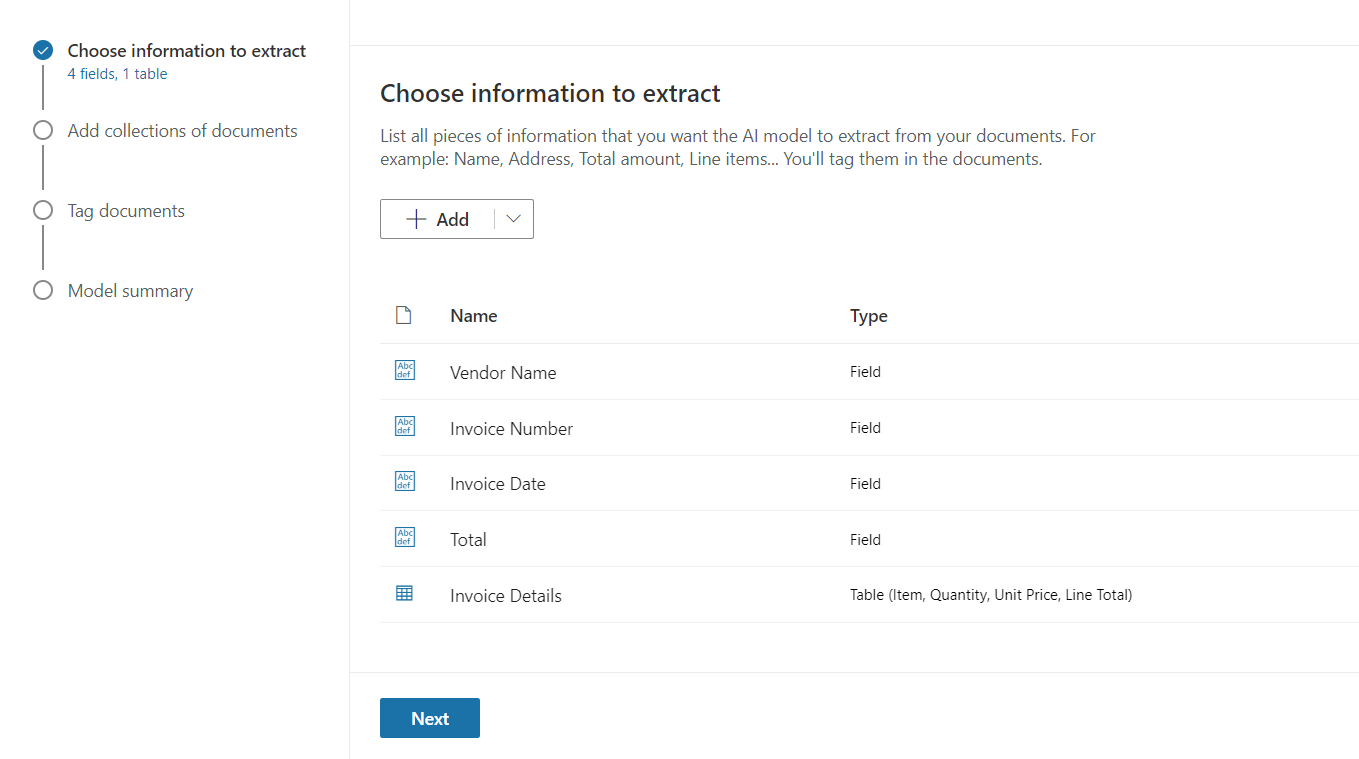
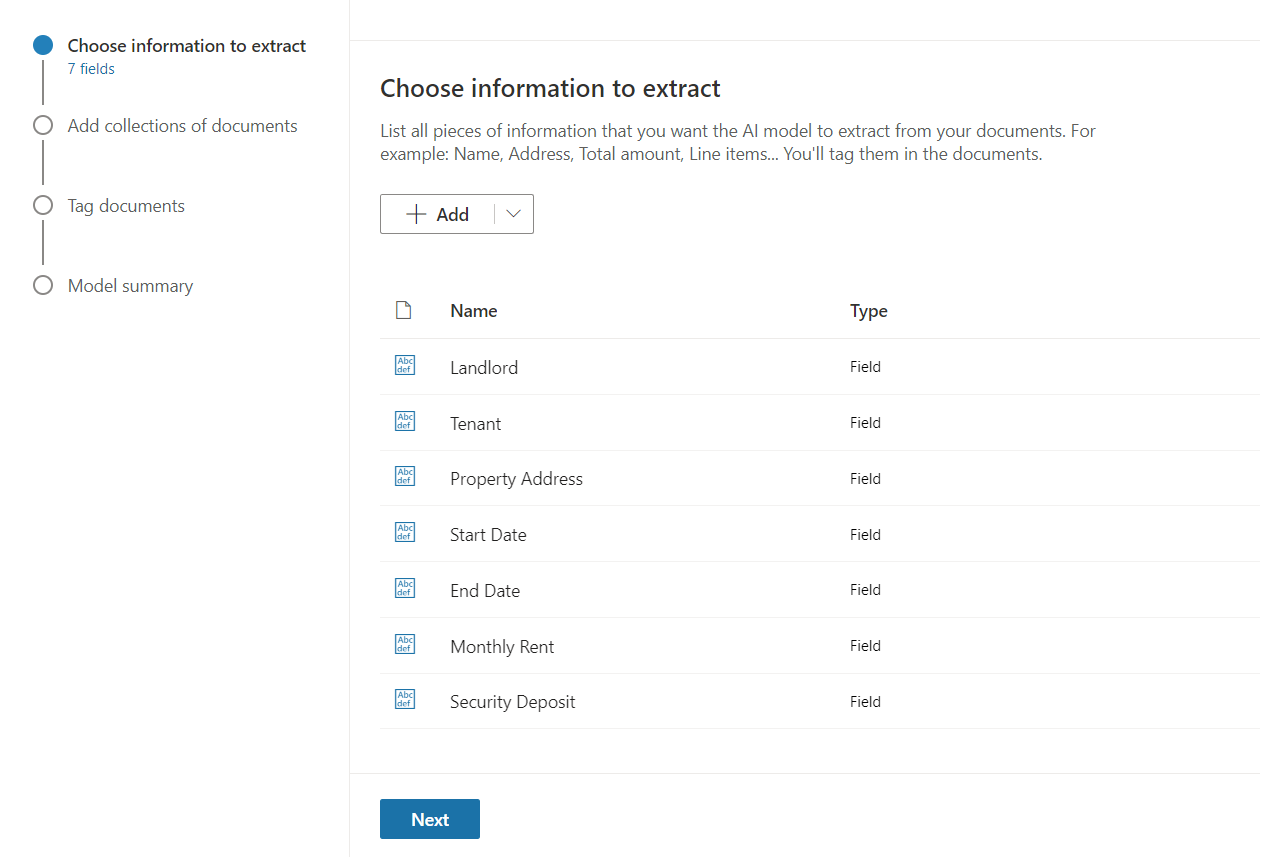
Updated article

diff --git a/_posts/2022-12-05-freeform-doc-processing-syntex.md b/_posts/2022-12-05-freeform-doc-processing-syntex.md
@@ -27,9 +27,14 @@ Freeform document processing model uses Microsoft Power Apps AI Builder to creat
 
 ## Business Scenario
 
-Let us take a scenario, where we are receiving invoices from multiple vendors (e.g., Adatum and Contoso). Adatum shares the invoices over an email. Whereas invoices received from Contoso are in scanned format. Each of them follows its format to share the invoices.
+Let us take a scenario, where we need to process the rental agreements in various formats. The information can appear in a freeform without any pre-defined layout.
 
-You may use the [sample data](https://learn.microsoft.com/en-us/ai-builder/form-processing-sample-data?WT.mc_id=M365-MVP-5003693) for setting up the model.
+You may use the [Rental agreements sample data](https://learn.microsoft.com/en-us/ai-builder/form-processing-sample-data?WT.mc_id=M365-MVP-5003693) for setting up the model.
+
+![](/media/2022-12-05-freeform-doc-processing-syntex/01.png)
+
+The above image shows two different formats of the rental agreement, but has common metadata to extract (E.g., Landlord, Tenant, Property Address, Start Date, End Date, Monthly Rent, and Security Deposit). 
+
 
 ## Create a Freeform document processing model
 
@@ -40,31 +45,27 @@ Follow the below steps to create a Freeform document processing model:
 3. Click **Create a model**.
 4. Select the **Freeform selection method**.
 
-    ![](/media/2022-12-05-freeform-doc-processing-syntex/01.png)
+    ![](/media/2022-12-05-freeform-doc-processing-syntex/02.png)
 
 5. Read out the details to understand the model better. Note, you can use this model on PDF and image files in the English language.
 
-    ![](/media/2022-12-05-freeform-doc-processing-syntex/02.png)
+    ![](/media/2022-12-05-freeform-doc-processing-syntex/03.png)
 
 6. Name your model. Click **Create**.
 
-    ![](/media/2022-12-05-freeform-doc-processing-syntex/03.png)
+    ![](/media/2022-12-05-freeform-doc-processing-syntex/04.png)
 
 
 **Choose information to extract**
 
-1. We can now start by defining the information to extract as Field, Checkbox, or Table.
+Based on the fields that we want to capture from the rental agreement, let us define the fields.
 
-    ![](/media/2022-12-05-freeform-doc-processing-syntex/04.png)
-
-2. Based on the fields that we want to capture from the invoice, let us define the fields.
-
-    ![](/media/2022-12-05-freeform-doc-processing-syntex/05.png)
+![](/media/2022-12-05-freeform-doc-processing-syntex/05.png)
 
 
 **Add collections of documents**
 
-In the next step, we need to create a collection for each layout (e.g., Adatum and Contoso invoices).
+In the next step, we need to create a collection.
 
 ![](/media/2022-12-05-freeform-doc-processing-syntex/06.png)
 
@@ -81,11 +82,11 @@ We can add documents from any of below source:
 
 **Tag documents**
 
-1. In the next step, we need to tag the documents to extract the information from the sample documents into the fields defined.
+In the next step, we need to tag the documents to extract the information from the sample documents into the fields defined.
 
-    ![](/media/2022-12-05-freeform-doc-processing-syntex/07.png)
+![](/media/2022-12-05-freeform-doc-processing-syntex/07.png)
 
-2. Processing the table involves defining the rows and columns. Or switch to advanced tagging mode to tag the content of the table.
+If any field is not available in a document to tag, select **Not available in document** against the field.
 
     ![](/media/2022-12-05-freeform-doc-processing-syntex/08.png)
 
@@ -102,7 +103,7 @@ Review your model.
 Click **Train** to train your model. 
 
 > Note:
-> This may take from 20 minutes up to a few hours.
+> This may take from 20 minutes up to a few hours, based on varied layouts.
 
 
 ## Publish trained model
@@ -111,6 +112,8 @@ After the training is complete, your model is ready to publish. It is a good ide
 
 ![](/media/2022-12-05-freeform-doc-processing-syntex/10.png)
 
+Click **Publish** to make the model available.
+
 
 ## Apply the model
 
@@ -118,7 +121,6 @@ As a next step, we need to apply the model to a document library to start proces
 
 1. Click **+ Add library**.
 2. Select SharePoint and document library.
-3. If you choose to **Extract info from tables**, specify the SharePoint list.
 
     ![](/media/2022-12-05-freeform-doc-processing-syntex/11.png)
 
@@ -135,8 +137,6 @@ Once the documents are uploaded to the designated document library, select the d
 The result will look as follows:
 
 ![](/media/2022-12-05-freeform-doc-processing-syntex/13.png)
-
-The information from the table gets stored in a specified SharePoint list.
 
 
 ## Summary
